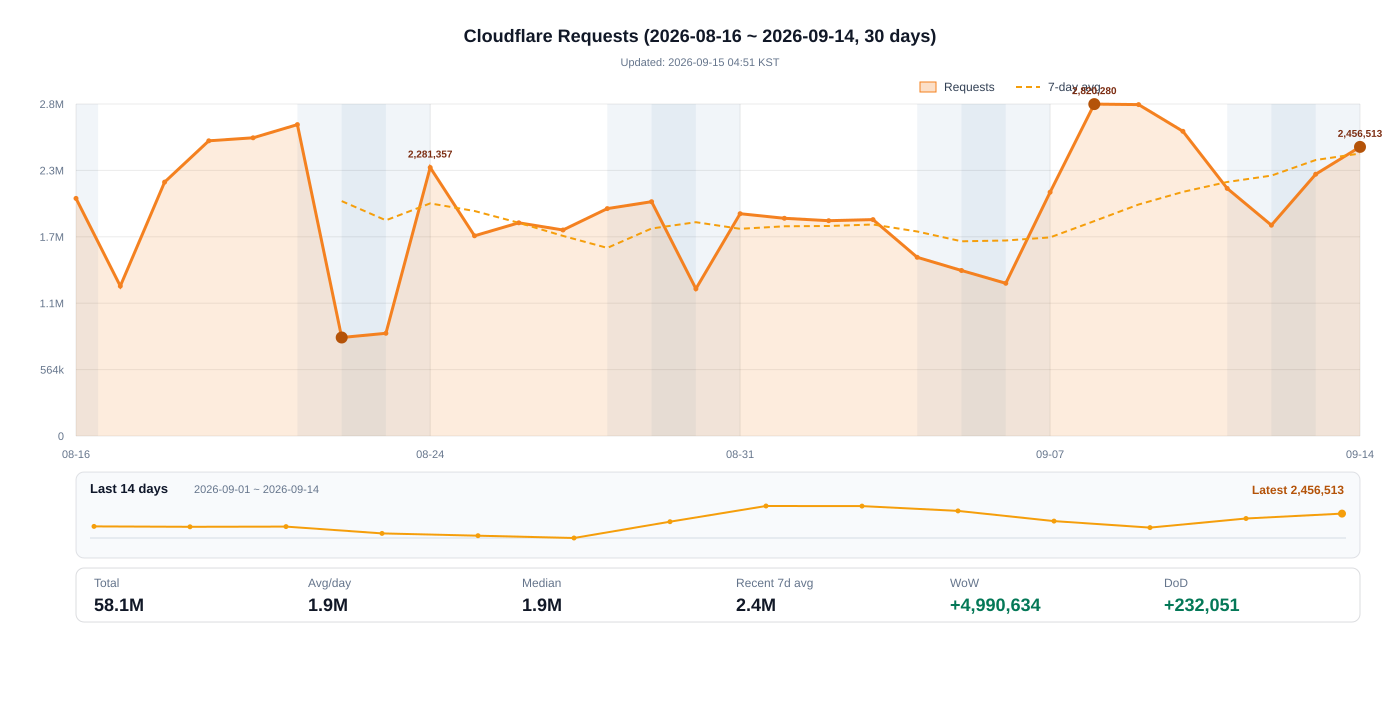
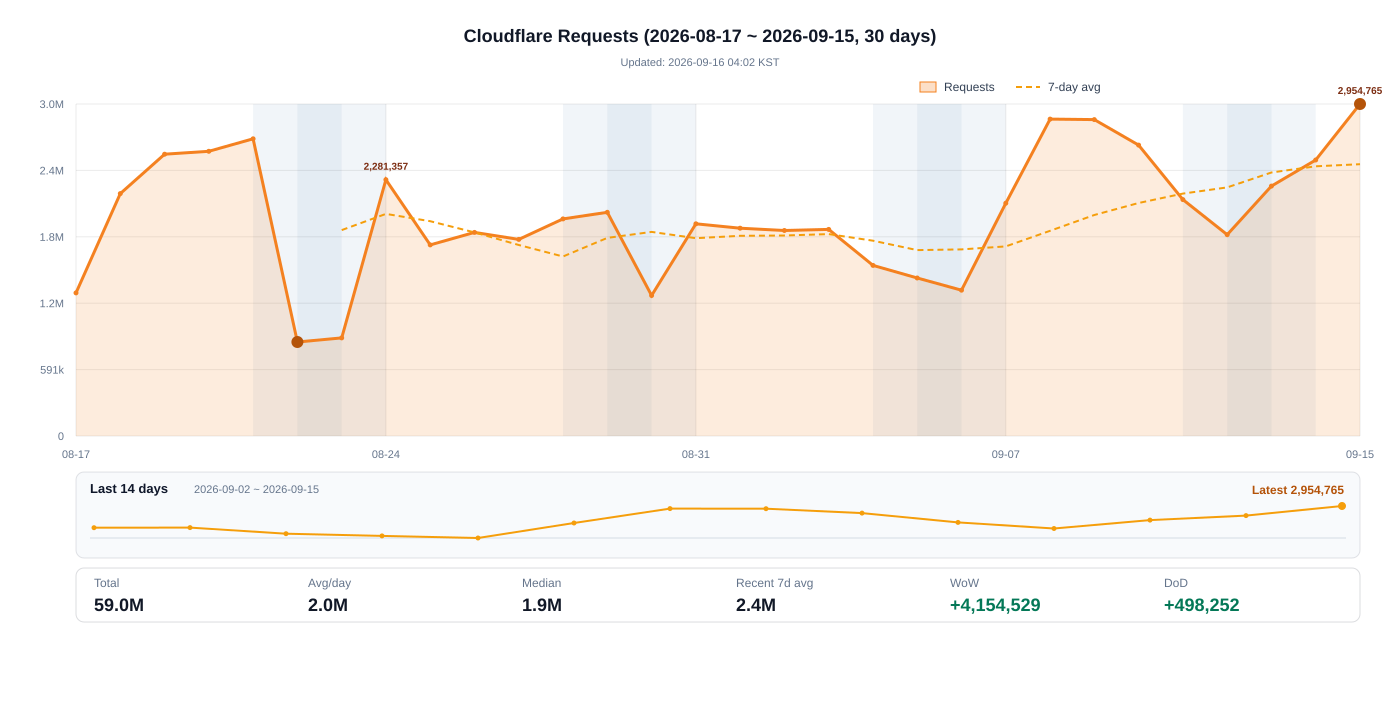
chore: 워커 호출량 그래프 자동 갱신

diff --git a/README.md b/README.md
@@ -85,16 +85,14 @@
 **[실시간 서비스 상태 보기](https://aka-page.betteruptime.com/)**
 
 <!-- WORKERS_INVOCATIONS_CHART:START -->
-<h3>Cloudflare 요청 수 (2026-08-16 ~ 2026-09-14, 30일)</h3>
+<h3>Cloudflare 요청 수 (2026-08-17 ~ 2026-09-15, 30일)</h3>
 
-<img src="./assets/analytics/workers-invocations.png?v=2026-09-14T19:51:30.925Z" alt="Cloudflare 요청 수 그래프 (2026-08-16 ~ 2026-09-14)" width="100%">
+<img src="./assets/analytics/workers-invocations.png?v=2026-09-15T19:02:20.269Z" alt="Cloudflare 요청 수 그래프 (2026-08-17 ~ 2026-09-15)" width="100%">
 
-<sub>기준 워커: <code>daiso-mcp</code> · 마지막 갱신: 2026-09-15 04:51 KST</sub>
+<sub>기준 워커: <code>daiso-mcp</code> · 마지막 갱신: 2026-09-16 04:02 KST</sub>
 <br><sub>집계: Worker 실행 + 루트 GET 리디렉션 요청 · 사용자 수와 다릅니다.</sub>
 
 </div>
-
-> Zyte 유료 호출을 중지했습니다. 무료 원본 조회를 우선하며 일부 서비스는 별도 실행 환경이 필요합니다. [비용 정책과 서비스별 상태](docs/zyte-free-access.md)를 확인하세요.
 
 > [!IMPORTANT]
 > 최근 공개 서버 사용량이 크게 증가하여 2026년 7월 18일부터 올리브영·CGV·CU·GS25·롯데마트의 검색을 포함한 공개 GET API에 IP당 하루 합산 3,000회(KST 기준)의 호출 제한을 적용합니다. 한도를 초과하는 사용이 필요하다면 Daiso MCP는 오픈 소스이므로 이 저장소를 직접 배포해 이용해 주세요.
